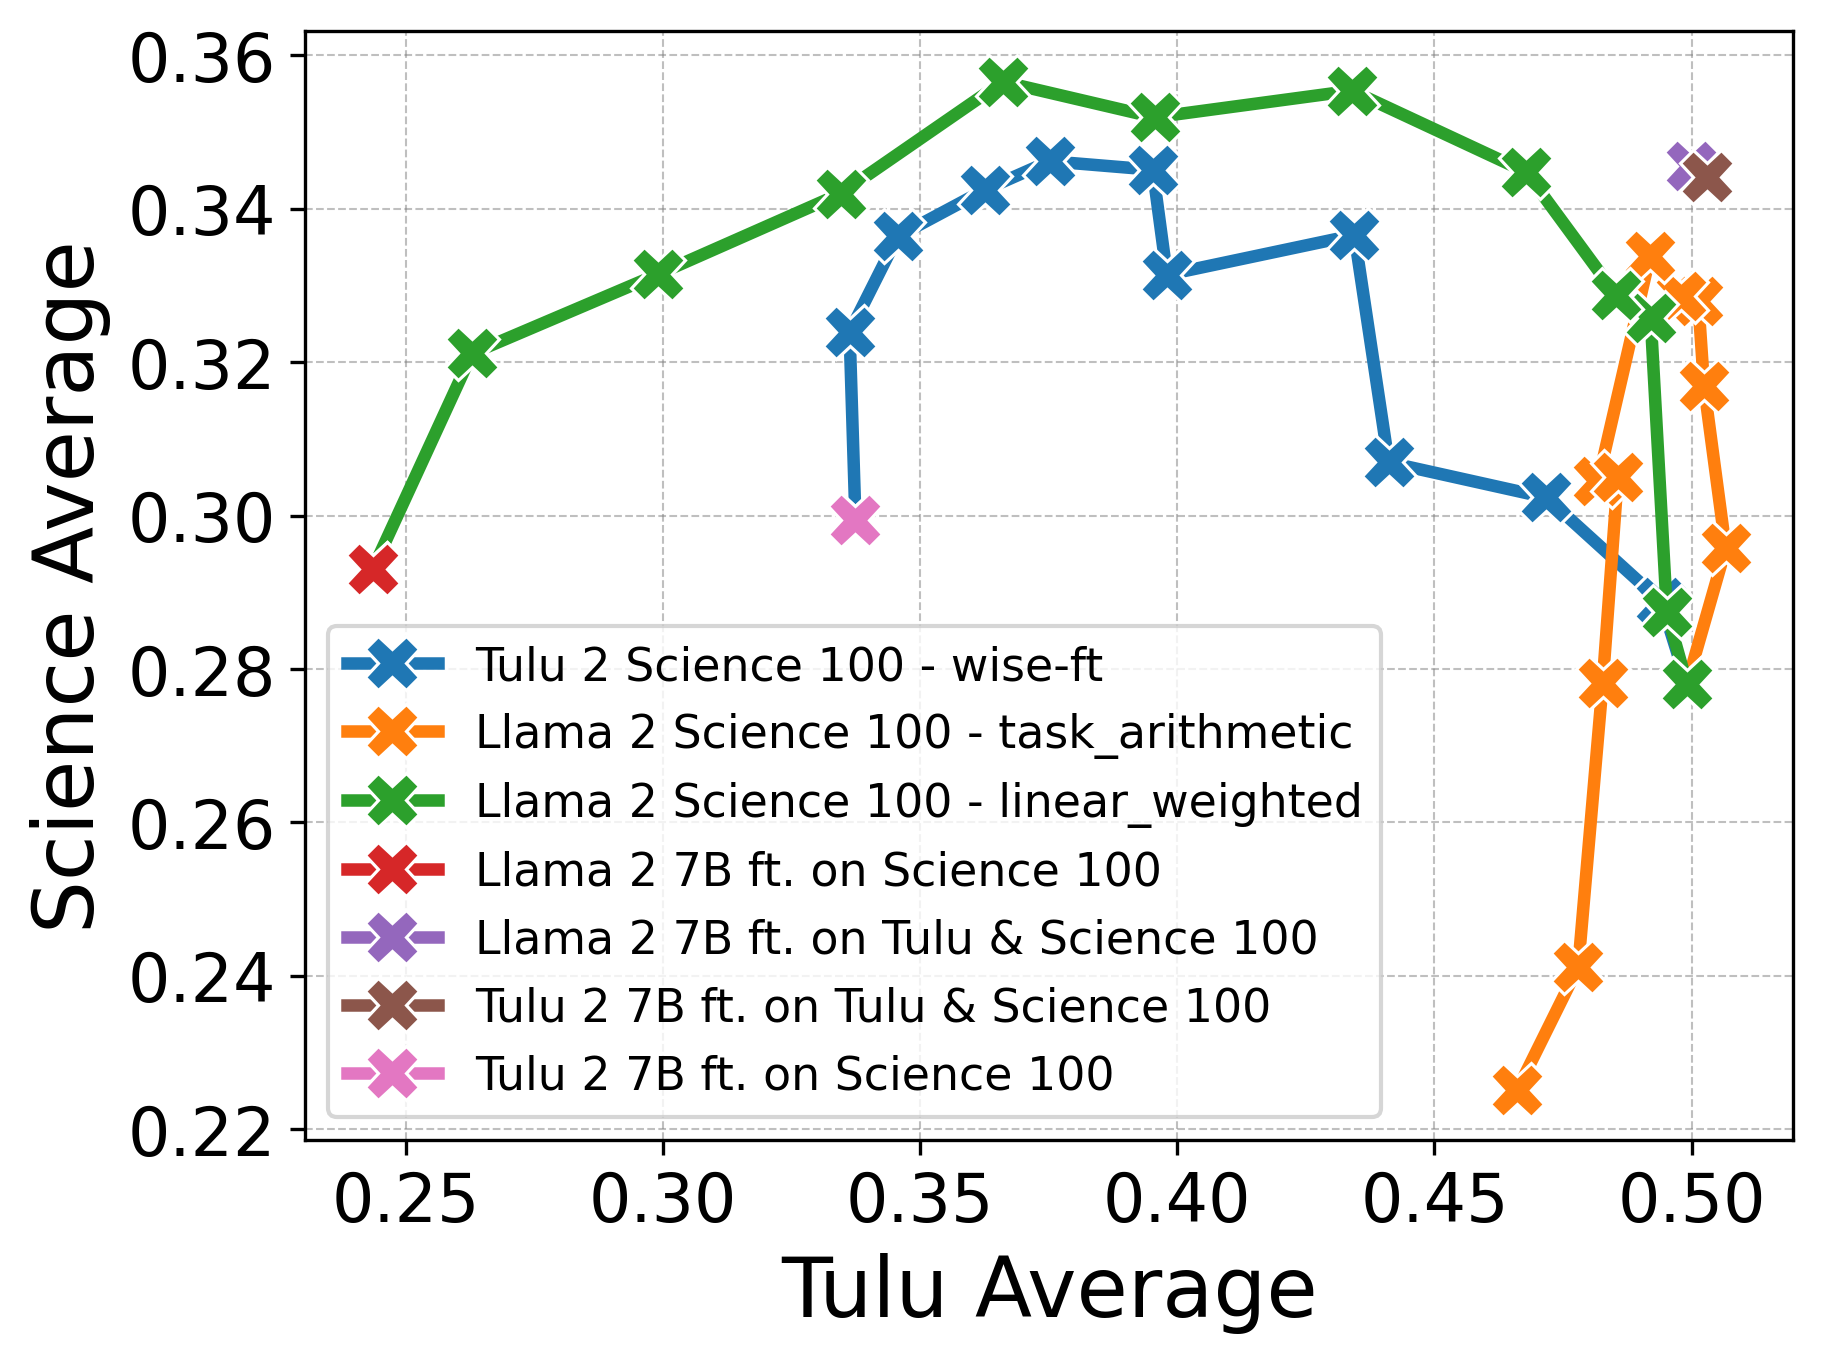
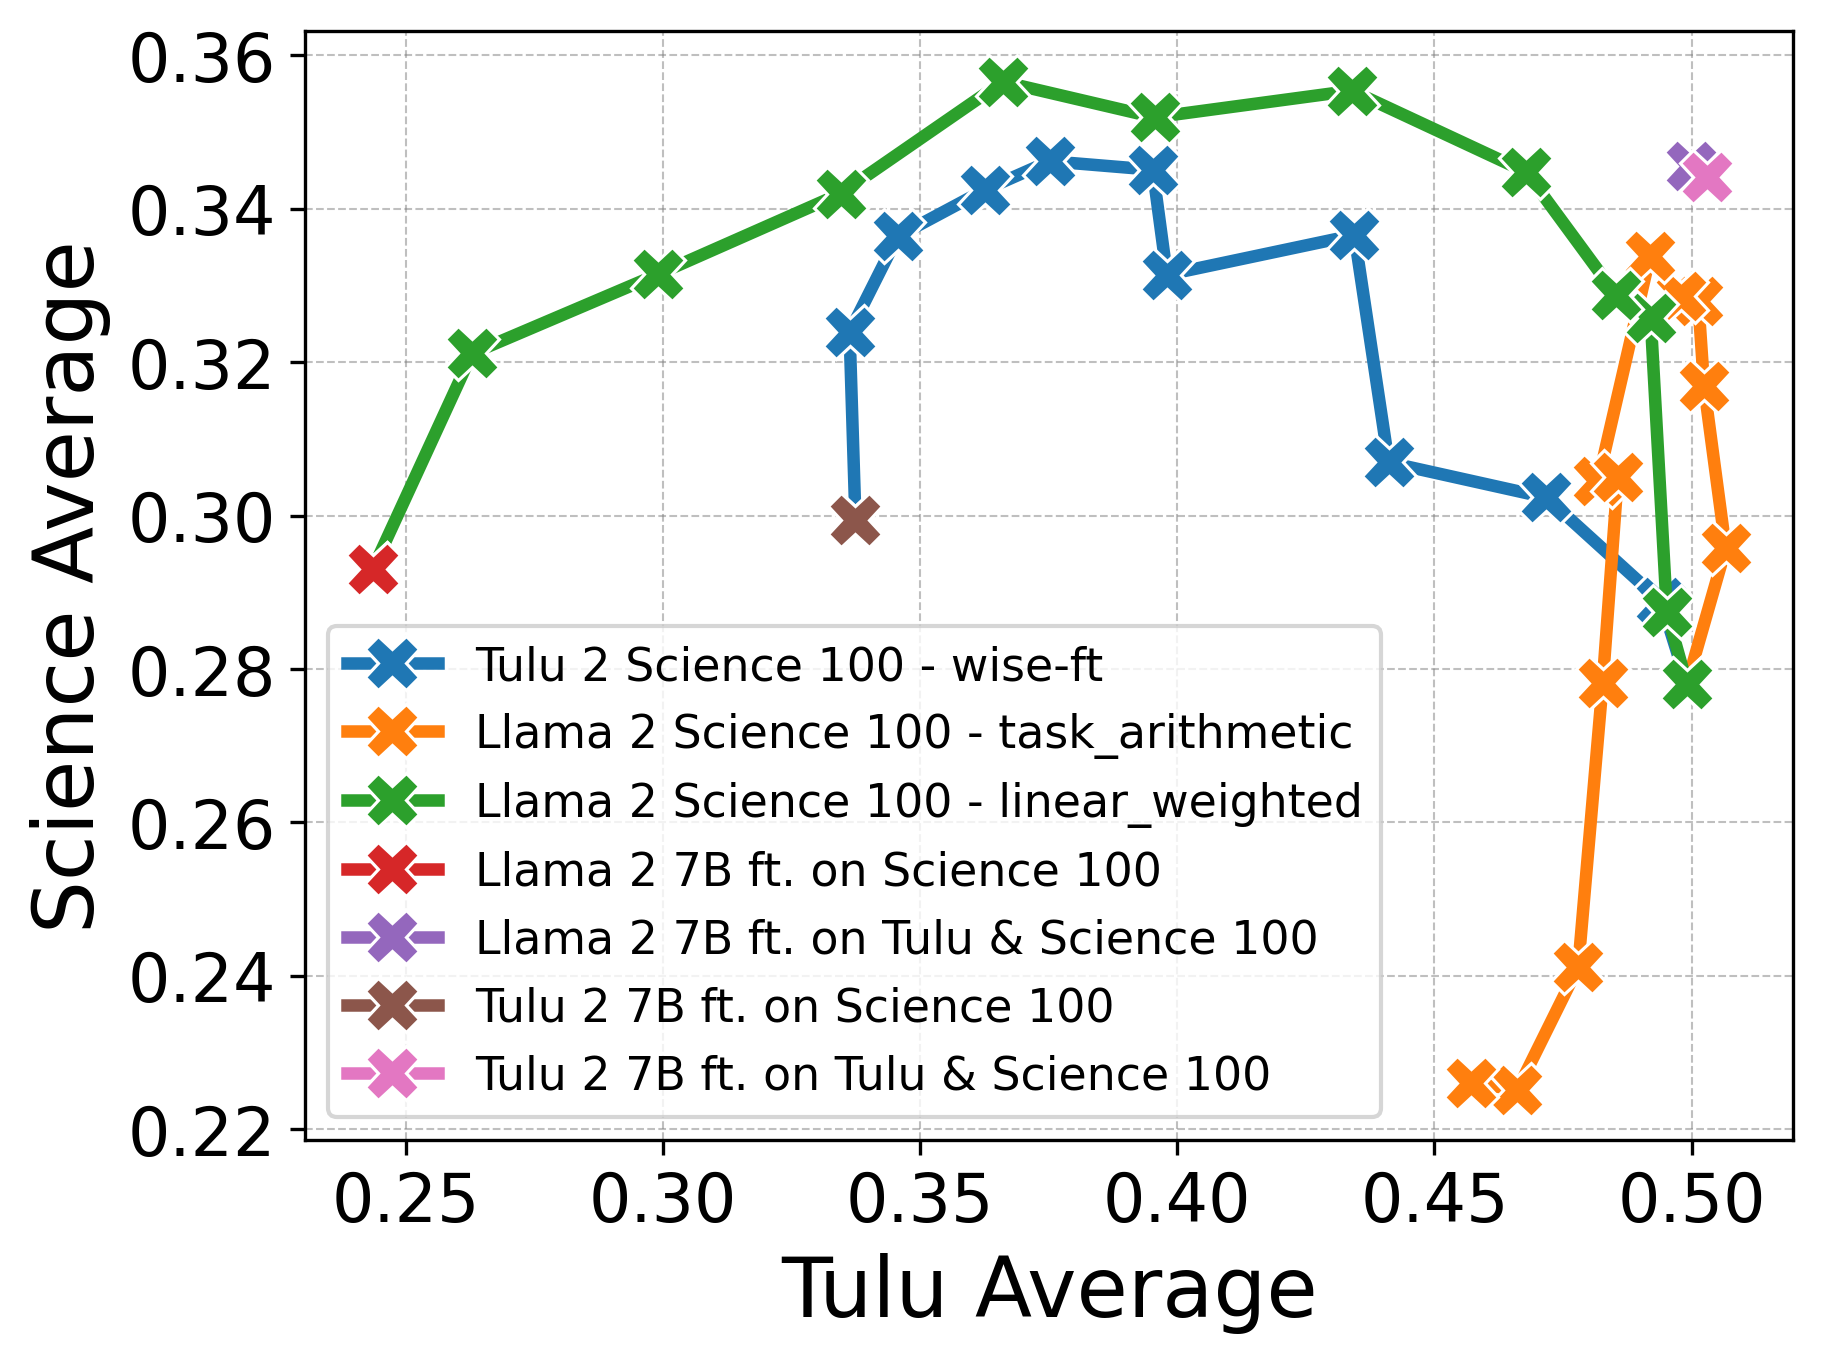
.

diff --git a/scripts/merge_models/merge-and-upload-4k.py b/scripts/merge_models/merge-and-upload-4k.py
@@ -148,6 +148,10 @@ import yaml
 
 # beaker session create --gpus 1 --budget ai2/oe-adapt  \
 #     --mount beaker://jacobm/llama_2_7b-tulu_all=/llama_2_7b-tulu_all \
+#     --mount beaker://jacobm/tulu_2_7b-tulu_match-science_100=/tulu_2_7b-tulu_match-science_100 \
+#     --mount beaker://jacobm/tulu_2_7b-tulu_match-science_200=/tulu_2_7b-tulu_match-science_200 \
+#     --mount beaker://jacobm/tulu_2_7b-tulu_match-science_500=/tulu_2_7b-tulu_match-science_500 \
+#     --mount beaker://jacobm/tulu_2_7b-tulu_match-science_1000=/tulu_2_7b-tulu_match-science_1000 \
 #     --mount beaker://jacobm/tulu_2_7b-tulu_match-science_2500=/tulu_2_7b-tulu_match-science_2500
 
 
@@ -395,12 +399,16 @@ domain_models = {
     # "coding_80": "/tulu_2_7b_with_coding-tulu_none-coding_80",
     # "coding_100": "/tulu_2_7b_with_coding-tulu_none-coding_100",
 
-    "science_2500": "/tulu_2_7b-tulu_match-science_2500",
+    "science_100": "/tulu_2_7b-tulu_match-science_100",
+    "science_200": "/tulu_2_7b-tulu_match-science_200",
+    "science_500": "/tulu_2_7b-tulu_match-science_500",
+    "science_1000": "/tulu_2_7b-tulu_match-science_1000",
+    # "science_2500": "/tulu_2_7b-tulu_match-science_2500",
 }
 
 merge_methods = [
-    # "linear_weighted",
-    "task_arithmetic",
+    "linear_weighted",
+    # "task_arithmetic",
     # "dare_task_arithmetic",
     # "dare_linear",
     # "dare_ties",
@@ -425,8 +433,8 @@ for model_tag in domain_models:
             with open(base_yaml, 'r') as f:
                 d1 = yaml.load(f.read(), Loader=yaml.FullLoader)
             d = copy.deepcopy(d1)
-            # if merge_method == "task_arithmetic" or merge_method == "dare_task_arithmetic":
-                # tuluWeight = 1.0
+            if merge_method == "task_arithmetic" or merge_method == "dare_task_arithmetic":
+                tuluWeight = 1.0
             if merge_method == "linear_weighted" or merge_method == "task_arithmetic":
                 # Set merge-specific parameters
                 d["models"][0]["model"] = tulu_file

diff --git a/results/consistent_mix/graph-results.py b/results/consistent_mix/graph-results.py
@@ -66,7 +66,7 @@ def create_model_combo(row):
                 domain_model += f" MISSING {token}"
 
     if str(row["merge_method"]) == "nan":
-        return f"{base_model} ft. on {tulu_model} & {domain_model.strip()}".replace(" Tulu None &", "").replace(" Tulu Match", " Tulu")
+        return f"{base_model} ft. on {tulu_model} & {domain_model.strip()}".replace(" Tulu None &", "")
     else:
         # return f"{base_model} ft. on {tulu_model} merged with {domain_model.strip()} ({row['merge_method']})".replace(" Tulu None &", "")
         return f"{domain_model.replace(' 7B Tulu None', '').strip()} - {row['merge_method']}"
@@ -255,10 +255,10 @@ def plot_all_curves():
 
 def plot_individual_science_curves():
     science_amounts = [
-        "100",
-        "200",
-        "500",
-        "1000",
+        # "100",
+        # "200",
+        # "500",
+        # "1000",
         "2500",
     ]
     for amount in science_amounts:
@@ -274,9 +274,10 @@ def plot_individual_science_curves():
                 # df["Combo"].str.contains("Science 200") |
                 # df["Combo"].str.contains("Science 500") |
                 # df["Combo"].str.contains("Science 1000") |
-                df["Combo"].str.contains(f"Science {amount}")
+                df["Combo"].str.contains(f"cience {amount}")
             )
         ]
+        print(df)
         if amount == "100":
             df = df[~df["Combo"].str.contains("Science 1000")]
 
@@ -449,8 +450,8 @@ def plot_individual_safety_vs_exaggerated_refusals():
         plt.clf()
 
 
-# plot_individual_science_curves()
+plot_individual_science_curves()
 # plot_individual_coding_curves()
 # plot_individual_safety_curves()
 # plot_individual_coding_curves_tulu_with_coding()
-plot_individual_safety_vs_exaggerated_refusals()
+# plot_individual_safety_vs_exaggerated_refusals()

diff --git a/scripts/make-combo-mixtures.py b/scripts/make-combo-mixtures.py
@@ -16,14 +16,19 @@ with open("/net/nfs.cirrascale/allennlp/jacobm/modular_adaptation/train_data/saf
     for line in f_in.readlines():
         safety_examples.append(json.loads(line))
 
-three_domains = science_examples + safety_examples
+code_examples = []
+with open("/net/nfs.cirrascale/allennlp/jacobm/modular_adaptation/train_data/coding/tulu_none-coding_100.jsonl") as f_in:
+    for line in f_in.readlines():
+        code_examples.append(json.loads(line))
+
+three_domains = science_examples + safety_examples + code_examples
 random.shuffle(three_domains)
-with open("/net/nfs.cirrascale/allennlp/jacobm/modular_adaptation/train_data/consistent_mix/tulu_none-science_2500-safety_100.jsonl", "w") as f_out:
+with open("/net/nfs.cirrascale/allennlp/jacobm/modular_adaptation/train_data/consistent_mix/tulu_none-science_2500-safety_100-coding_100.jsonl", "w") as f_out:
     for elem in three_domains:
         print(json.dumps(elem), file=f_out)
 
 tulu_and_three_domains = tulu_all_no_science_no_safety_no_coding + three_domains
 random.shuffle(tulu_and_three_domains)
-with open("/net/nfs.cirrascale/allennlp/jacobm/modular_adaptation/train_data/consistent_mix/tulu_all_no_science_no_safety_no_coding-science_2500-safety_100.jsonl", "w") as f_out:
+with open("/net/nfs.cirrascale/allennlp/jacobm/modular_adaptation/train_data/consistent_mix/tulu_all_no_science_no_safety_no_coding-science_2500-safety_100-coding_100.jsonl", "w") as f_out:
     for elem in tulu_and_three_domains:
         print(json.dumps(elem), file=f_out)

diff --git a/results/consistent_mix/collect-results.py b/results/consistent_mix/collect-results.py
@@ -407,8 +407,7 @@ with open("/net/nfs.cirrascale/allennlp/jacobm/modular_adaptation/results/domain
             
 from pprint import pprint
 pprint(data_map.keys())
-
-# TODO: fix!!          
+        
 for dataset in [
     "coding_20",
     "coding_40",
